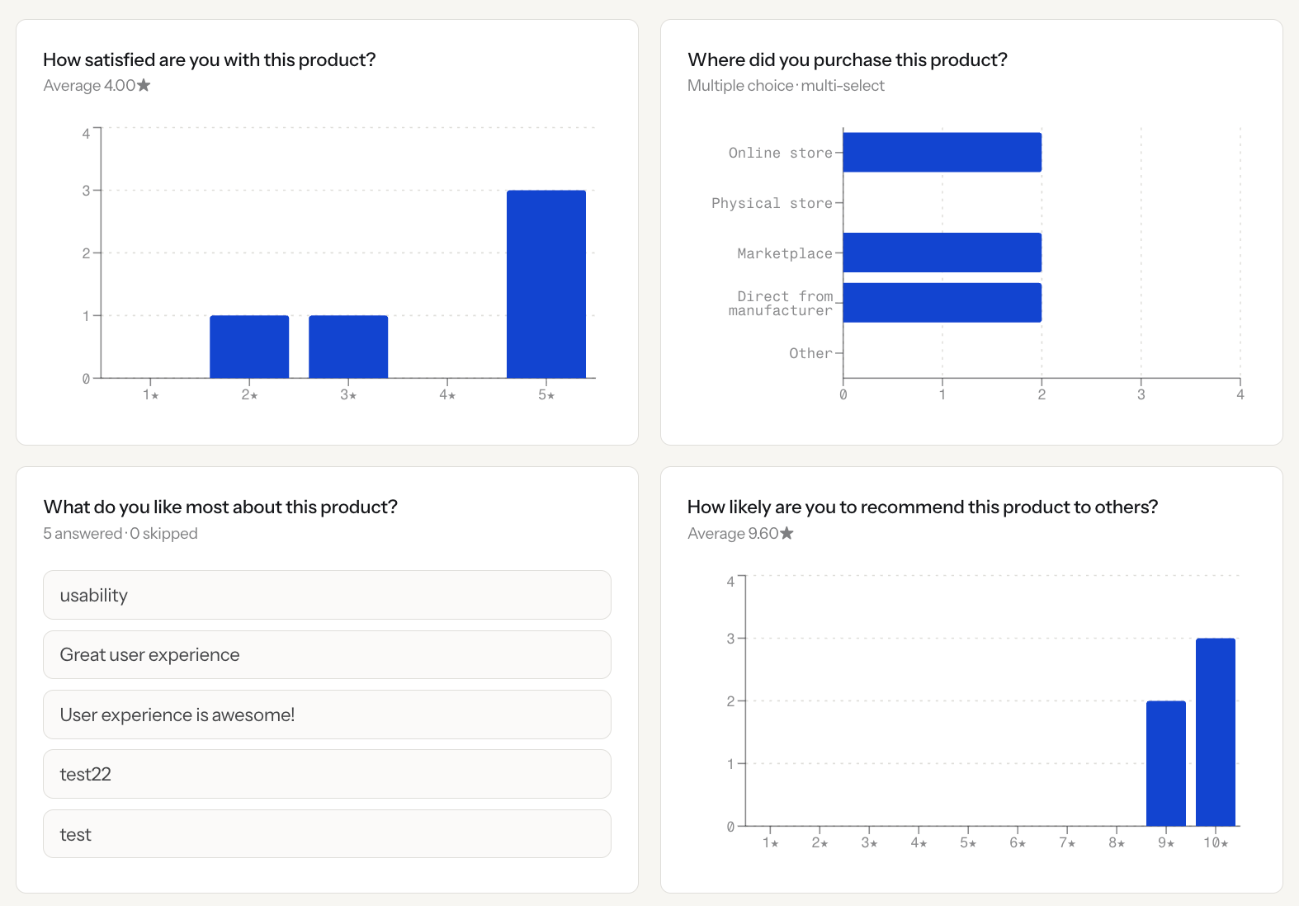
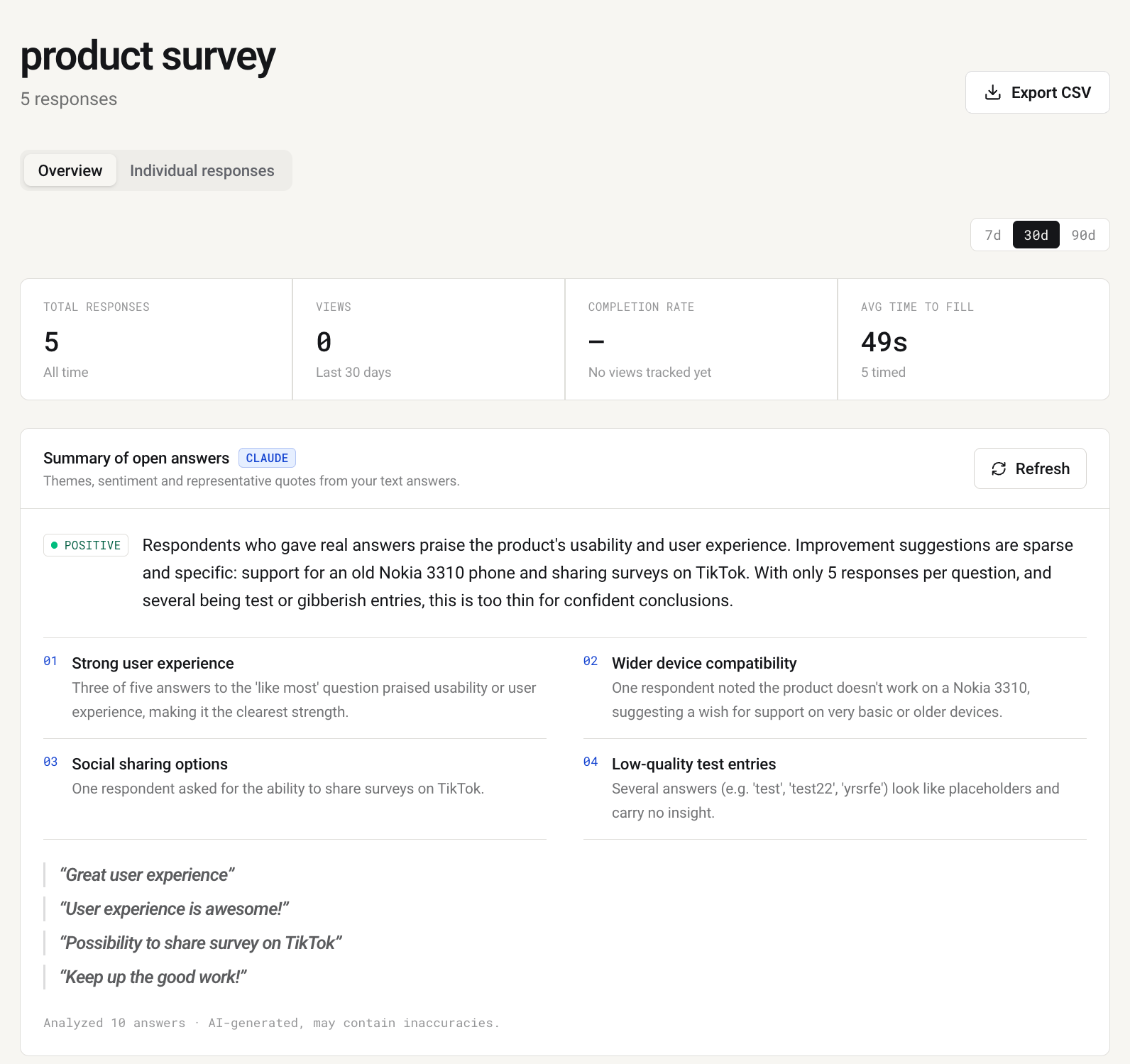
docs: README screenshots of the AI features and refreshed copy
- Add docs/screenshots/ai-suggestions.png: real Claude question drafting in
  the editor of a live form.
- Replace analytics.png with the responses dashboard showing Claude's
  summary (themes, sentiment, quotes) on a real form.
- New "Drafting questions with Claude" and "Reading the results" sections;
  landing section mentions the interactive hero and AI demos.
- Features table: precise wording for AI drafting (Sonnet 5.5, 5-8 typed
  questions with options) and summaries (themes with frequency, sentiment,
  quotes, flags thin data).
- Design table: landing tints and logo-derived section marks.
- Screenshot guide updated for the four images.

diff --git a/README.md b/README.md
@@ -48,17 +48,27 @@ No account needed for the [interactive demo](https://flowformapp.vercel.app/demo
 | | Feature | What it does |
 |---|---|---|
 | `01` | **Drag-and-drop builder** | 7 question types: short & long text, single/multi choice, dropdown, yes/no, NPS and rating scales. Start from a template or a blank form, with a live preview of what respondents see. |
-| `02` | **AI question suggestions** | Describe what you want to learn and Claude drafts well-worded, correctly typed questions you accept or edit with one click. |
+| `02` | **AI question drafting** | Give the form a title and goal and Claude (Sonnet 5.5) drafts five to eight questions, each with the right type and answer options. Add the ones you want with one click and edit anything. |
 | `03` | **Conditional logic** | Forward-only jump rules ("if they answer X, skip to…"), with path-aware validation so a required question a respondent never sees can't block them. |
 | `04` | **Conversational mode** | One question at a time with a progress bar, keyboard shortcuts (Enter to confirm, A–Z or Y/N to pick, 0–9 to score) and back-navigation. Or a **classic** all-on-one-page mode. |
 | `05` | **Drafts that persist** | Answers are saved locally so a respondent can come back and finish, with a guard against double submission. |
 | `06` | **Analytics dashboard** | A real funnel (opened → started → completed), completion rate, average time-to-fill, per-question drop-off and a response trend over 7/30/90 days. |
-| `07` | **AI response summaries** | Claude reads open-text answers and pulls out themes, sentiment and representative quotes. |
+| `07` | **AI response summaries** | Claude reads every open-text answer and returns the main themes (with how common each was), the overall sentiment and verbatim quotes, and says so when there's too little data to be confident. |
 | `08` | **Sharing & export** | Shareable link, QR code, embed snippet, native share and CSV export. |
 
 ### The landing page
 
+The hero card is a working three-question form with a real jump rule; further down, the Build and
+Learn sections have hands-on demos of the two AI features.
+
 ![Flowform landing page](docs/screenshots/landing.png)
+
+### Drafting questions with Claude
+
+Real output in the editor for a form titled "Customer feedback survey": eight questions, each with
+its type picked. Nothing is added until you click Add.
+
+![Claude question suggestions in the editor](docs/screenshots/ai-suggestions.png)
 
 ### Filling a form
 
@@ -66,12 +76,13 @@ One question at a time, set as a headline, with lettered options you can pick by
 
 ![Conversational fill experience](docs/screenshots/fill.png)
 
-### Measuring results
+### Reading the results
 
-Per-question results from a real form, alongside the funnel, trend, drop-off and Claude summary
-views on the same dashboard.
+The responses dashboard for a real form: headline metrics, then Claude's summary of the open
+answers with themes, sentiment and quotes. It even flags the placeholder test answers rather than
+reading meaning into them. Funnel, trend, drop-off and per-question charts follow below.
 
-![Per-question analytics](docs/screenshots/analytics.png)
+![Analytics with the Claude summary](docs/screenshots/analytics.png)
 
 ## Design
 
@@ -82,7 +93,8 @@ work.
 | | Choice |
 |---|---|
 | **Type** | [Roboto](https://fonts.google.com/specimen/Roboto) throughout: semibold and tightly tracked for headlines and questions, regular for interface text, with [Roboto Mono](https://fonts.google.com/specimen/Roboto+Mono) for labels, counters and numbers |
-| **Colour** | Ink `#14161A` on paper `#FBFAF7`, with one Klein-style blue (`#1244D0`) reserved for actions, selection, focus and live data |
+| **Colour** | Ink `#14161A` on paper `#FBFAF7`, with one Klein-style blue (`#1244D0`) reserved for actions, selection, focus and live data. The landing page adds soft sky, sun, coral and mint tints behind its product demos |
+| **Marks** | The logo is an ink tile with two "answer bars"; the Build / Branch / Learn icons are drawn from the same shapes rather than a stock icon set |
 | **Shape** | Tight 6–8 px radii, 1 px hairline borders, one soft shadow for floating "product sheets" only |
 | **Motion** | A single step transition between questions; respects `prefers-reduced-motion` |
 | **Tokens** | All colours are `oklch` custom properties in [src/styles.css](src/styles.css), mapped to Tailwind utilities |

diff --git a/docs/screenshots/README.md b/docs/screenshots/README.md
@@ -6,10 +6,13 @@ Static screenshots referenced from the root [README.md](../../README.md). The he
 | File | Used for | Content |
 | --- | --- | --- |
 | `landing.png` | "The landing page" | Landing hero at 1440 × 900 |
+| `ai-suggestions.png` | "Drafting questions with Claude" | Real Claude suggestions in the editor of a live form |
 | `fill.png` | "Filling a form" | A respondent mid-flow on a multi-select question, two options picked |
-| `analytics.png` | "Measuring results" | Per-question charts from the responses dashboard of a real form |
+| `analytics.png` | "Reading the results" | Metrics and the Claude summary on a real form's responses dashboard |
 
 `landing.png` and `fill.png` are taken at 2× device scale against the local dev server;
-`analytics.png` comes from the signed-in production dashboard. When capturing a real
-published form, block the `record_form_event` RPC (or use a form you own while signed in) so the
+`ai-suggestions.png` and `analytics.png` come from the signed-in production app. Both AI
+features only read data, so generating them for a screenshot changes nothing in the account.
+
+When capturing a real published form while signed out, block the `record_form_event` RPC so the
 visit doesn't add views to that form's funnel.
